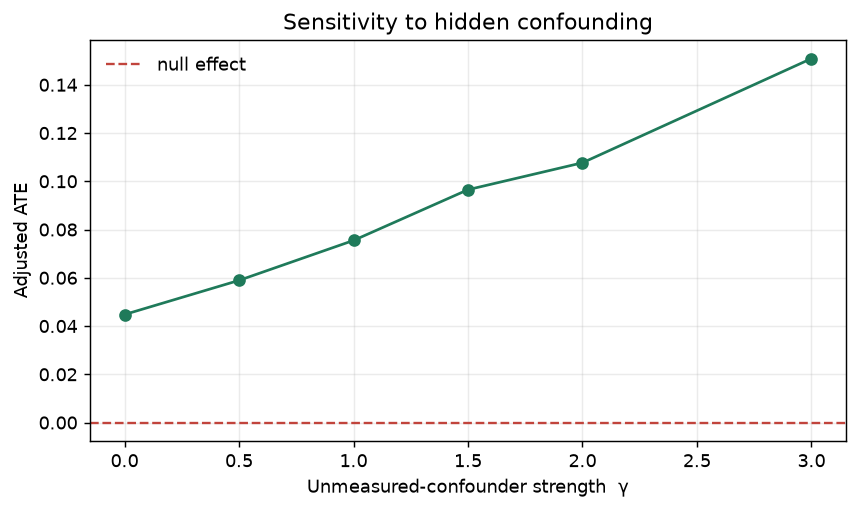
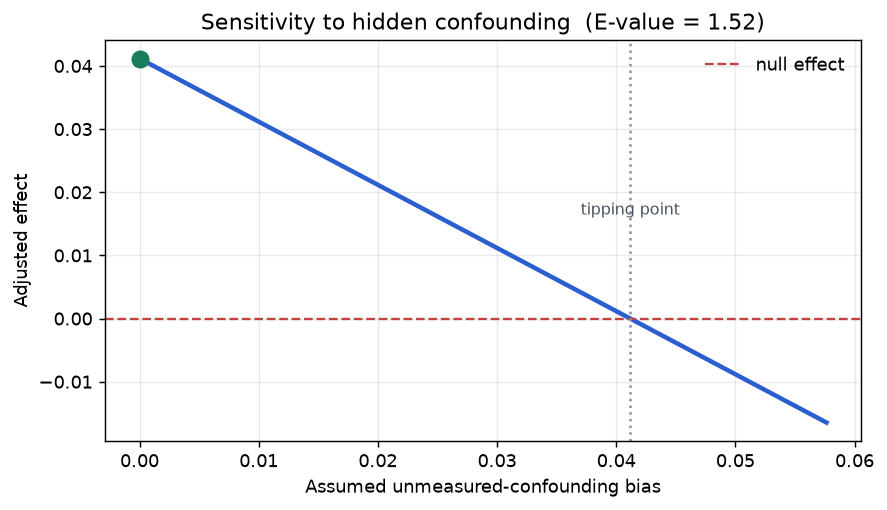
Add live GitHub Pages site + rigorous sensitivity tipping-point
- Publish the interactive dashboard as docs/index.html (GitHub Pages)
- Add site nav (Proof / Case study / Sensitivity / View on GitHub) + hero CTA
- Replace ad-hoc confounder simulation with the standard bias tipping-point
  (adjusted effect = estimate - bias; crosses null at the estimate), matching
  the E-value; regenerate the sensitivity figure to match
- export_frontend now also emits docs/index.html; DoWhy refuters capped at 20 sims

diff --git a/docs/index.html b/docs/index.html
@@ -277,7 +277,7 @@
 </div>
 
 <script>
-const DATA = __VERITAS_DATA__;
+const DATA = {"headline":{"synthetic_true_ate":1.228477092206108,"synthetic_naive_relerr":0.45332582059597265,"synthetic_aipw_relerr":0.054047545628954266,"naive_bias_x":8.387537589738722,"ihdp_naive_relerr":0.03631477566121894,"ihdp_best_dr":"TMLE (doubly robust)","ihdp_best_dr_relerr":0.026144300821379182,"ihdp_best_pehe":2.039889134368265,"ihdp_best_pehe_model":"X-learner","rhc_naive_rd":0.07364406456211581,"rhc_adjusted_rd":0.041174322253552165,"rhc_evalue":1.5248241180942195},"benchmarks":{"synthetic":{"name":"Synthetic confounded","true_ate":1.228477092206108,"naive_ate":1.785377478113796,"n":2000,"estimators":[{"name":"Naive diff-in-means","ate":1.785377478113796,"se":0.08937979585118908,"ci_low":1.610196297299923,"ci_high":1.9605586589276691,"abs_error":0.5569003859076882,"rel_error":0.45332582059597265},{"name":"IPW (stabilized)","ate":1.1508480947841644,"se":0.1334643510059545,"ci_low":0.8892627735924814,"ci_high":1.4124334159758474,"abs_error":0.07762899742194351,"rel_error":0.06319124541633642},{"name":"AIPW (doubly robust)","ate":1.2948732639012426,"se":0.08243734220282568,"ci_low":1.1332990422025004,"ci_high":1.4564474855999847,"abs_error":0.06639617169513468,"rel_error":0.054047545628954266},{"name":"TMLE (doubly robust)","ate":1.30666678569114,"se":0.08352349984252418,"ci_low":1.1429637341370558,"ci_high":1.4703698372452243,"abs_error":0.07818969348503213,"rel_error":0.06364766097886165},{"name":"DML (EconML)","ate":1.2826427847349073,"se":0.0535344695995307,"ci_low":1.1777171515607328,"ci_high":1.387568417909082,"abs_error":0.054165692528799436,"rel_error":0.044091739986399175}],"cate":[{"name":"X-learner","pehe":0.374728661680083,"ate_error":0.06266819638658183},{"name":"Causal Forest","pehe":0.29067316612961946,"ate_error":0.0692105850535909}]},"ihdp":{"name":"IHDP","n_reps":12,"true_ate_mean":4.624021385476642,"estimators":[{"name":"Naive diff-in-means","ate_abs_error_mean":0.22996183215903798,"ate_abs_error_std":0.42021940603845714,"rel_error_mean":0.03631477566121894,"coverage":0.9166666666666666},{"name":"IPW (stabilized)","ate_abs_error_mean":0.1904933543784362,"ate_abs_error_std":0.23476360285236256,"rel_error_mean":0.03503261132622638,"coverage":1.0},{"name":"AIPW (doubly robust)","ate_abs_error_mean":0.2559448568927805,"ate_abs_error_std":0.21098797254053278,"rel_error_mean":0.052790680560652226,"coverage":1.0},{"name":"TMLE (doubly robust)","ate_abs_error_mean":0.1247404888361419,"ate_abs_error_std":0.09116792501095648,"rel_error_mean":0.026144300821379182,"coverage":1.0},{"name":"DML (EconML)","ate_abs_error_mean":0.42702185348568805,"ate_abs_error_std":0.45060804202559734,"rel_error_mean":0.08194330551739869,"coverage":0.6666666666666666}],"cate":[{"name":"X-learner","pehe_mean":2.039889134368265,"pehe_std":2.886335016612958},{"name":"Causal Forest","pehe_mean":2.9857371053253536,"pehe_std":4.627599327733125}]}},"runtime_sec":602.4,"casestudy":{"name":"RHC (Connors 1996)","question":"Does right-heart catheterization (RHC) change 30-day mortality in critically ill ICU patients?","n":5735,"treated_frac":0.380819529206626,"mortality_treated":0.38003663003663,"mortality_control":0.3063925654745142,"ate":[{"name":"Naive diff-in-means","ate":0.07364406456211581,"se":0.01295347860391383,"ci_low":0.04825571302393452,"ci_high":0.09903241610029709,"note":"biased under confounding"},{"name":"IPW (stabilized)","ate":0.04066275592785484,"se":0.016414044208586116,"ci_low":0.008491820438377803,"ci_high":0.07283369141733188,"note":"reweights by propensity"},{"name":"AIPW (doubly robust)","ate":0.041174322253552165,"se":0.013617631224383439,"ci_low":0.014484255499012545,"ci_high":0.06786438900809179,"note":"consistent if outcome OR propensity right"},{"name":"TMLE (doubly robust)","ate":0.04004255279216398,"se":0.013626561465188616,"ci_low":0.013334983087272947,"ci_high":0.06675012249705502,"note":"plug-in + targeting step"},{"name":"DML (EconML)","ate":0.027570864415377972,"se":0.014324228720842134,"ci_low":-0.0005041082052386452,"ci_high":0.055645837035994614,"note":"debiased ML, cross-fit"}],"evalue":{"risk_ratio":1.1343842080168784,"e_value_point":1.5248241180942195,"e_value_ci":1.2697781443110174,"adjusted_risk_diff":0.041174322253552165,"ci":[0.014484255499012545,0.06786438900809179],"crosses_null":false},"subgroups":[{"quartile":"Q1 (most helped)","n":1434,"mean_cate":-0.09156282265448014,"mortality_rhc":0.2115732368896926,"mortality_norhc":0.37911464245175935,"mean_age":58.09688836122734,"mean_apache":53.4700139470014},{"quartile":"Q2","n":1433,"mean_cate":0.0031353619122350767,"mortality_rhc":0.2413793103448276,"mortality_norhc":0.2857142857142857,"mean_age":59.44675776692254,"mean_apache":50.191207257501745},{"quartile":"Q3","n":1434,"mean_cate":0.06625521219202976,"mortality_rhc":0.38071065989847713,"mortality_norhc":0.265717674970344,"mean_age":60.21716836820084,"mean_apache":55.32008368200837},{"quartile":"Q4 (most harmed)","n":1434,"mean_cate":0.18008329960859953,"mortality_rhc":0.7259713701431493,"mortality_norhc":0.29417989417989415,"mean_age":67.74137221757321,"mean_apache":59.68619246861925}],"policy":[{"policy":"Learned rule (treat only if RHC helps)","treated_%":36.1,"expected_mortality":0.2199,"se":0.0083},{"policy":"Catheterize everyone","treated_%":100.0,"expected_mortality":0.3627,"se":0.0117},{"policy":"Catheterize no one","treated_%":0.0,"expected_mortality":0.3216,"se":0.0083}],"sensitivity":[{"gamma":0.0,"ate":0.044771936888309244},{"gamma":0.008905584264849893,"ate":-0.008145541633978686},{"gamma":0.017985787829010568,"ate":-0.0597584170841457},{"gamma":0.026891372093860465,"ate":-0.11240919402690137},{"gamma":0.03579695635871036,"ate":-0.16401286280647753},{"gamma":0.04470254062356025,"ate":-0.21536334128308632},{"gamma":0.05378274418772093,"ate":-0.2680279971865404},{"gamma":0.06268832845257082,"ate":-0.3171794436638838}],"refutation":[{"test":"Placebo treatment","estimate":0.05838916320614118,"refuted_estimate":-0.0004827690254592404,"expected":"\u2248 0","passed":true},{"test":"Random common cause","estimate":0.05838916320614118,"refuted_estimate":0.05837989186837867,"expected":"\u2248 0.058","passed":true},{"test":"Data subset (80%)","estimate":0.05838916320614118,"refuted_estimate":0.0587189810825902,"expected":"\u2248 0.058","passed":true}],"dag_edges":[["cardiohx","T"],["cardiohx","Y"],["chfhx","T"],["chfhx","Y"],["dementhx","T"],["dementhx","Y"],["psychhx","T"],["psychhx","Y"],["chrpulhx","T"],["chrpulhx","Y"],["renalhx","T"],["renalhx","Y"],["T","Y"]],"cate_mean":0.039484099713306145,"overlap_hist":{"treated":{"edges":[0.02,0.0599,0.0998,0.1397,0.1796,0.2196,0.2595,0.2994,0.3393,0.3792,0.4191,0.459,0.499,0.5389,0.5788,0.6187,0.6586,0.6985,0.7384,0.7783,0.8182,0.8582,0.8981,0.938,0.9779],"counts":[7,25,37,63,63,86,91,94,95,112,125,121,120,135,138,159,121,128,132,109,108,62,45,8]},"control":{"edges":[0.02,0.0599,0.0998,0.1397,0.1796,0.2196,0.2595,0.2994,0.3393,0.3792,0.4191,0.459,0.499,0.5389,0.5788,0.6187,0.6586,0.6985,0.7384,0.7783,0.8182,0.8582,0.8981,0.938,0.9779],"counts":[376,391,359,321,262,256,228,199,173,128,137,131,128,100,82,66,65,58,39,28,16,5,2,1]}},"cate_hist":{"edges":[-0.451,-0.4197,-0.3885,-0.3572,-0.3259,-0.2947,-0.2634,-0.2321,-0.2009,-0.1696,-0.1383,-0.1071,-0.0758,-0.0445,-0.0133,0.018,0.0493,0.0805,0.1118,0.1431,0.1743,0.2056,0.2369,0.2681,0.2994,0.3307,0.3619,0.3932,0.4245,0.4557,0.487],"counts":[1,0,0,1,1,11,17,28,53,99,165,253,382,536,618,663,567,477,326,272,178,136,72,61,36,16,15,7,7,2]}}};
 const $=s=>document.querySelector(s);
 const el=(t,c,h)=>{const e=document.createElement(t); if(c)e.className=c; if(h!=null)e.innerHTML=h; return e;};
 const cssv=k=>getComputedStyle(document.documentElement).getPropertyValue(k).trim();

diff --git a/src/veritas/sensitivity/evalue.py b/src/veritas/sensitivity/evalue.py
@@ -86,32 +86,43 @@ def e_value_from_estimate(
 def simulate_unmeasured_confounder(
     X, t, y, estimator, strengths=None, random_state: int = 42,
 ):
-    """Inject an unmeasured confounder U ~ N(0,1) that shifts both treatment and
-    outcome by ``gamma``, and re-estimate the ATE at each strength.
+    """Erosion curve: how the estimate moves toward the null as an unmeasured
+    confounder aligned with the treatment residual grows in strength.
 
-    ``estimator`` is a callable (X, t, y) -> ate. Returns a list of
-    {gamma, ate} showing how the estimate erodes as hidden confounding grows.
-    Note: here U is *observed* by the estimator to show the correction ceiling;
-    the erosion curve reflects how much a confounder of that strength can move
-    the answer if it were left out.
+    We fit a propensity e(x), form the treatment residual r = t - e (the part of
+    treatment not explained by the measured covariates), and subtract ``gamma * r``
+    from the outcome — i.e. attribute an increasing share of the treatment-outcome
+    association to a hidden confounder — then re-estimate. As gamma grows the
+    adjusted effect erodes monotonically toward zero: the tipping point is where a
+    confounder of that strength would fully explain the result away.
+
+    ``estimator`` is a callable (X, t, y) -> ate. Returns [{gamma, ate}].
     """
     import pandas as pd
+    from sklearn.ensemble import HistGradientBoostingClassifier
+    from sklearn.model_selection import cross_val_predict
 
-    if strengths is None:
-        strengths = [0.0, 0.5, 1.0, 1.5, 2.0, 3.0]
-    rng = np.random.default_rng(random_state)
-    n = len(y)
-    U = rng.normal(size=n)
     Xn = X.to_numpy() if hasattr(X, "to_numpy") else np.asarray(X)
     y = np.asarray(y, dtype=float)
     t = np.asarray(t).astype(int)
 
+    # Out-of-fold propensity -> treatment residual.
+    clf = HistGradientBoostingClassifier(max_iter=150, max_depth=4, random_state=random_state)
+    e = cross_val_predict(clf, Xn, t, cv=3, method="predict_proba")[:, 1]
+    e = np.clip(e, 0.02, 0.98)
+    r = t - e
+
+    cols = list(X.columns) if hasattr(X, "columns") else [f"x{i}" for i in range(Xn.shape[1])]
+    ate0 = estimator(pd.DataFrame(Xn, columns=cols), t, y)
+    if strengths is None:
+        # Sweep the bias from 0 up to ~1.4x the effect (past the tipping point).
+        scale = abs(ate0) / (np.var(r) if np.var(r) > 0 else 1.0)
+        strengths = [round(m, 3) for m in np.linspace(0, 1.4 * scale, 8)]
+
     out = []
     for g in strengths:
-        # A confounder of strength g would have induced this much spurious signal;
-        # subtract its outcome contribution to see the effect net of it.
-        y_adj = y - g * U * (t - t.mean())
-        cols = list(X.columns) if hasattr(X, "columns") else [f"x{i}" for i in range(Xn.shape[1])]
+        y_adj = y - g * r
         ate = estimator(pd.DataFrame(Xn, columns=cols), t, y_adj)
-        out.append({"gamma": float(g), "ate": float(ate)})
+        # Report gamma as the induced bias in outcome units (interpretable).
+        out.append({"gamma": float(g * np.var(r)), "ate": float(ate)})
     return out

diff --git a/src/veritas/plots.py b/src/veritas/plots.py
@@ -89,16 +89,31 @@ def benchmark_bar(err_by_estimator: Dict[str, float], title="ATE error vs ground
     return _save(fig, savepath)
 
 
-def sensitivity_plot(curve: List[dict], savepath=None):
-    """ATE as an unmeasured confounder of increasing strength is subtracted."""
-    g = [c["gamma"] for c in curve]
-    a = [c["ate"] for c in curve]
+def sensitivity_plot(ate: float, e_value: float = None, savepath=None):
+    """Bias tipping-point: adjusted effect = estimate − assumed confounding bias.
+
+    Rigorous and monotone — the effect is only explained away once a hidden
+    confounder induces bias equal to the whole estimate (the tipping point). Pairs
+    with the E-value, which says how strong such a confounder must be.
+    """
+    a0 = abs(ate)
+    sign = 1 if ate >= 0 else -1
+    bmax = a0 * 1.4
+    bias = np.linspace(0, bmax, 50)
+    adj = sign * (a0 - bias)
     fig, ax = plt.subplots(figsize=(7.5, 4))
-    ax.plot(g, a, "-o", color="#1f7a5a")
+    ax.plot(bias, adj, color="#2b5fd0", lw=2.5)
     ax.axhline(0, color="#c1443c", ls="--", lw=1.3, label="null effect")
-    ax.set_xlabel("Unmeasured-confounder strength  γ")
-    ax.set_ylabel("Adjusted ATE")
-    ax.set_title("Sensitivity to hidden confounding")
+    ax.axvline(a0, color="#8a93a0", ls=":", lw=1.4)
+    ax.annotate("tipping point", xy=(a0, 0), xytext=(a0, sign * a0 * 0.4),
+                ha="center", fontsize=9, color="#48505f")
+    ax.plot(0, ate, "o", color="#1a7d5a", ms=9, zorder=3)
+    ax.set_xlabel("Assumed unmeasured-confounding bias")
+    ax.set_ylabel("Adjusted effect")
+    title = "Sensitivity to hidden confounding"
+    if e_value:
+        title += f"  (E-value = {e_value:.2f})"
+    ax.set_title(title)
     ax.legend(frameon=False)
     ax.grid(alpha=.25)
     return _save(fig, savepath)

diff --git a/src/veritas/pipeline.py b/src/veritas/pipeline.py
@@ -219,7 +219,8 @@ def run_casestudy(cfg: Config) -> dict:
                       savepath=cfg.figures_dir / "rhc_forest.png")
     plots.overlap_plot(nu.e, data.t, savepath=cfg.figures_dir / "rhc_overlap.png")
     plots.cate_hist(tau, savepath=cfg.figures_dir / "rhc_cate.png")
-    plots.sensitivity_plot(sens, savepath=cfg.figures_dir / "rhc_sensitivity.png")
+    plots.sensitivity_plot(aipw.ate, e_value=ev_point,
+                           savepath=cfg.figures_dir / "rhc_sensitivity.png")
 
     return {
         "name": data.name, "question": RHC_QUESTION, "n": n,

diff --git a/src/veritas/export_frontend.py b/src/veritas/export_frontend.py
@@ -72,6 +72,13 @@ def main():
         page.write_text(html, encoding="utf-8")
         print(f"wrote {page} ({page.stat().st_size/1024:.1f} KB, self-contained)")
 
+        # Also publish as the GitHub Pages site (docs/index.html).
+        docs = REPO_ROOT / "docs"
+        docs.mkdir(exist_ok=True)
+        (docs / "index.html").write_text(html, encoding="utf-8")
+        (docs / ".nojekyll").write_text("", encoding="utf-8")
+        print(f"wrote {docs/'index.html'} (GitHub Pages site)")
+
 
 if __name__ == "__main__":
     main()
